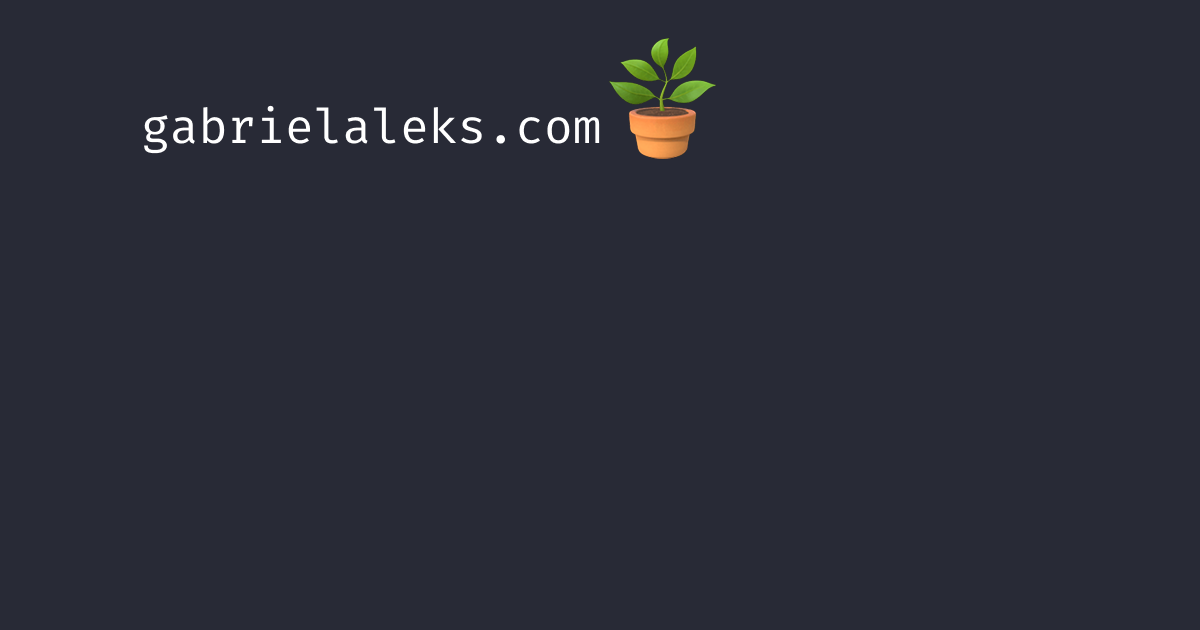
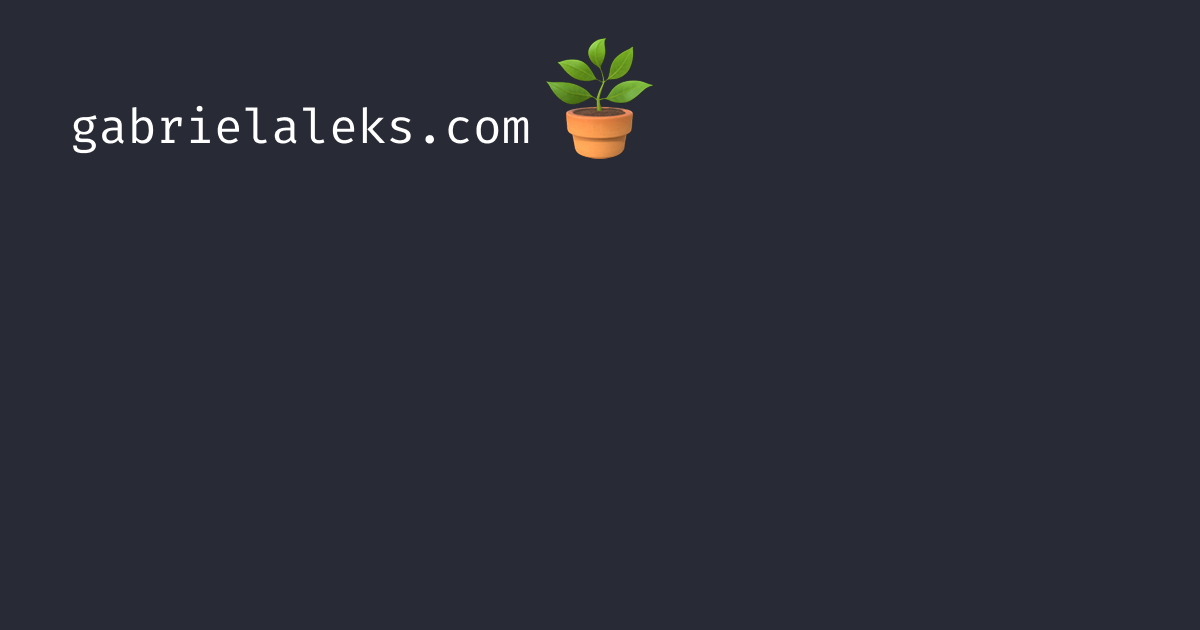
Update text on og image

Changed region(s): [[0.0617, 0.0603, 0.6167, 0.2714]]

diff --git a/layouts/_partials/opengraph.html b/layouts/_partials/opengraph.html
@@ -21,21 +21,19 @@
 {{- if .IsPage -}}
   {{ $base := resources.Get "images/og_base.png" }}
   {{ $font := resources.Get "fonts/FiraMono-Medium.ttf" }}
-  {{ if and $base $font }}
-    {{ $img := $base.Filter (images.Text .Page.Title (dict
-      "color" "#ffffff"
-      "size" 56
-      "linespacing" 10
-      "x" 141
-      "y" 270
-      "font" $font
-    ))}}
-    {{ $img = resources.Copy (path.Join .Page.RelPermalink "og.png") $img }}
-    <meta property="og:image" content="{{$img.Permalink}}">
-    <meta property="og:image:width" content="{{$img.Width}}" />
-    <meta property="og:image:height" content="{{$img.Height}}" />
-    <meta name="twitter:image" content="{{$img.Permalink}}" />
-  {{ end }}
+  {{ $img := $base.Filter (images.Text .Page.Title (dict
+    "color" "#ffffff"
+    "size" 56
+    "linespacing" 10
+    "x" 70
+    "y" 270
+    "font" $font
+  ))}}
+  {{ $img = resources.Copy (path.Join .Page.RelPermalink "og.png") $img }}
+  <meta property="og:image" content="{{$img.Permalink}}">
+  <meta property="og:image:width" content="{{$img.Width}}" />
+  <meta property="og:image:height" content="{{$img.Height}}" />
+  <meta name="twitter:image" content="{{$img.Permalink}}" />
 
   <!-- Twitter metadata (used by other websites as well) -->
   <meta name="twitter:card" content="summary_large_image" />
